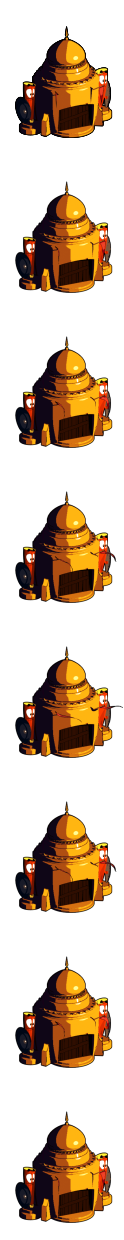
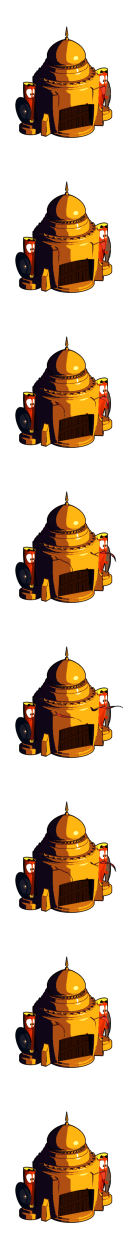
fixing townhall door animation bug

diff --git a/nezal-ar/public/base-defender/js/game/worker_factory.js b/nezal-ar/public/base-defender/js/game/worker_factory.js
@@ -16,11 +16,17 @@ var WorkerFactory = Class.create({
 		  	worker = game.workersStatus[i]
 		  }
 		  else {
-		  	do {
-		  		var x = townhall.coords.x + 20
-		  		var y = townhall.coords.y + 20
+				var x =0;var y =0;
+					if (townhall) {
+		  			x = townhall.coords.x + 30
+		  			y = townhall.coords.y + 30
+		  		}else{
+		  			do {
+						 x = Math.round(game.scene.map.x + game.scene.map.viewWidth * Math.random())
+						 y = Math.round(game.scene.map.y + game.scene.map.viewHeight * Math.random())
+						}while (Map.occupied(x, y));
 		  	}
-		  	while (Map.occupied(x, y));
+		  	
 				worker = new Worker(game,x,y)
 		  }
 			if(!game.workersStatus[i])game.workersStatus[i] = worker

diff --git a/nezal-ar/public/base-defender/js/game/game.js b/nezal-ar/public/base-defender/js/game/game.js
@@ -83,7 +83,7 @@ var Game = Class.create({
                          "activeCell.png", "inactiveCell.png", "resources.png", "correct.png", "correct.png"];
     var iconsImages = ["townhall.png", "townhall_icon.png", "quarry_icon.png", "lumbermill_icon.png", "quarry.png",
 		 "lumbermill.png", "lumber.png", "rock.png", "workers.png","cancel.png","storage.png","storage_icon.png",
-		 'defense_center.png','defense_center_icon.png'];
+		 "defense_center.png","defense_center_icon.png"];
    
 		var workerImages = ["worker.png", "worker_shadow.png"];
 		

diff --git a/nezal-ar/public/base-defender/js/game/displays/display.js b/nezal-ar/public/base-defender/js/game/displays/display.js
@@ -245,6 +245,7 @@ var TownhallDisplay = Class.create(BuildingDisplay, {
 					this.doorOpening = false
 					this.doorClosing = true
 					if(this.owner.producingCallback)this.owner.producingCallback()
+					return
 				}
 				if(this.sprites.building.currentAnimationFrame == 0 && this.doorClosing){
 					this.doorClosing = false

diff --git a/nezal-ar/public/base-defender/js/game/isometric/jumping_object.js b/nezal-ar/public/base-defender/js/game/isometric/jumping_object.js
@@ -13,6 +13,8 @@ var JumpingObject = Class.create({
 	 doingJump : false, 
 	 minSpeed : 1.5,
 	 maxSpeed : 4,
+	 noOfStates : 8, 
+	currentState : 0,
 	 movementFinishCallback : null,
 	 initialize : function(game,x,y){
 	 	this.game = game;
